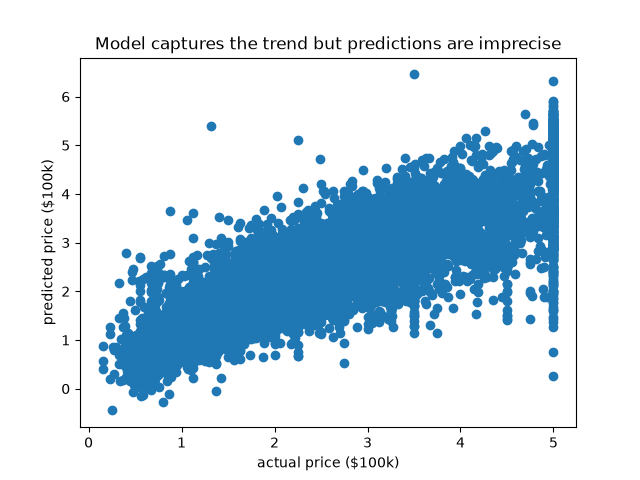
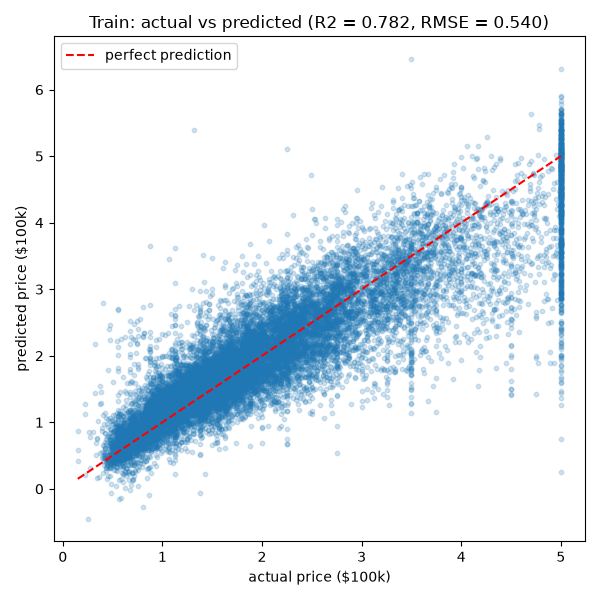
Plot improvements. Must merge after prior branch!
Added Eval metrics to plots and added a perfect prediction line for better interpretability

This is stacked on top of prior pull request.

diff --git a/src/model.py b/src/model.py
@@ -30,11 +30,6 @@ model = make_pipeline(
 
 model.fit(X_train, y_train)
 
-import os
-import matplotlib.pyplot as plt
-
-os.makedirs("figures", exist_ok=True)
-
 y_train_pred = model.predict(X_train)
 y_test_pred = model.predict(X_test)
 
@@ -43,21 +38,29 @@ test_r2 = r2_score(y_test, y_test_pred)
 train_rmse = mean_squared_error(y_train, y_train_pred) ** 0.5
 test_rmse = mean_squared_error(y_test, y_test_pred) ** 0.5
 
-print(f"Train R2: {train_r2:.3f}  RMSE: {train_rmse:.3f}")
-print(f"Test  R2: {test_r2:.3f}  RMSE: {test_rmse:.3f}")
 
-plt.figure()
-plt.scatter(y_train, y_train_pred)
-plt.xlabel("actual price ($100k)")
-plt.ylabel("predicted price ($100k)")
-plt.title("Model captures the trend but predictions are imprecise")
-plt.savefig("figures/train_actual_vs_pred.png")
+#Code for plotting
+import os
+import matplotlib.pyplot as plt
+
+os.makedirs("figures", exist_ok=True)
 
 
+def plot_actual_vs_pred(actual, predicted, split_name, r2, rmse, path):
+    plt.figure(figsize=(6, 6))
+    plt.scatter(actual, predicted, alpha=0.2, s=10)
+    lo, hi = actual.min(), actual.max()
+    plt.plot([lo, hi], [lo, hi], color="red", linestyle="--", label="perfect prediction")
+    plt.xlabel("actual price ($100k)")
+    plt.ylabel("predicted price ($100k)")
+    plt.title(f"{split_name}: actual vs predicted (R2 = {r2:.3f}, RMSE = {rmse:.3f})")
+    plt.legend()
+    plt.tight_layout()
+    plt.savefig(path)
+    plt.close()
 
-plt.figure()
-plt.scatter(y_test, y_test_pred)
-plt.xlabel("actual price ($100k)")
-plt.ylabel("predicted price ($100k)")
-plt.title("Test predictions follow the trend with wide spread")
-plt.savefig("figures/test_actual_vs_pred.png")
+
+plot_actual_vs_pred(y_train, y_train_pred, "Train", train_r2, train_rmse,
+                    "figures/train_actual_vs_pred.png")
+plot_actual_vs_pred(y_test, y_test_pred, "Test", test_r2, test_rmse,
+                    "figures/test_actual_vs_pred.png")
